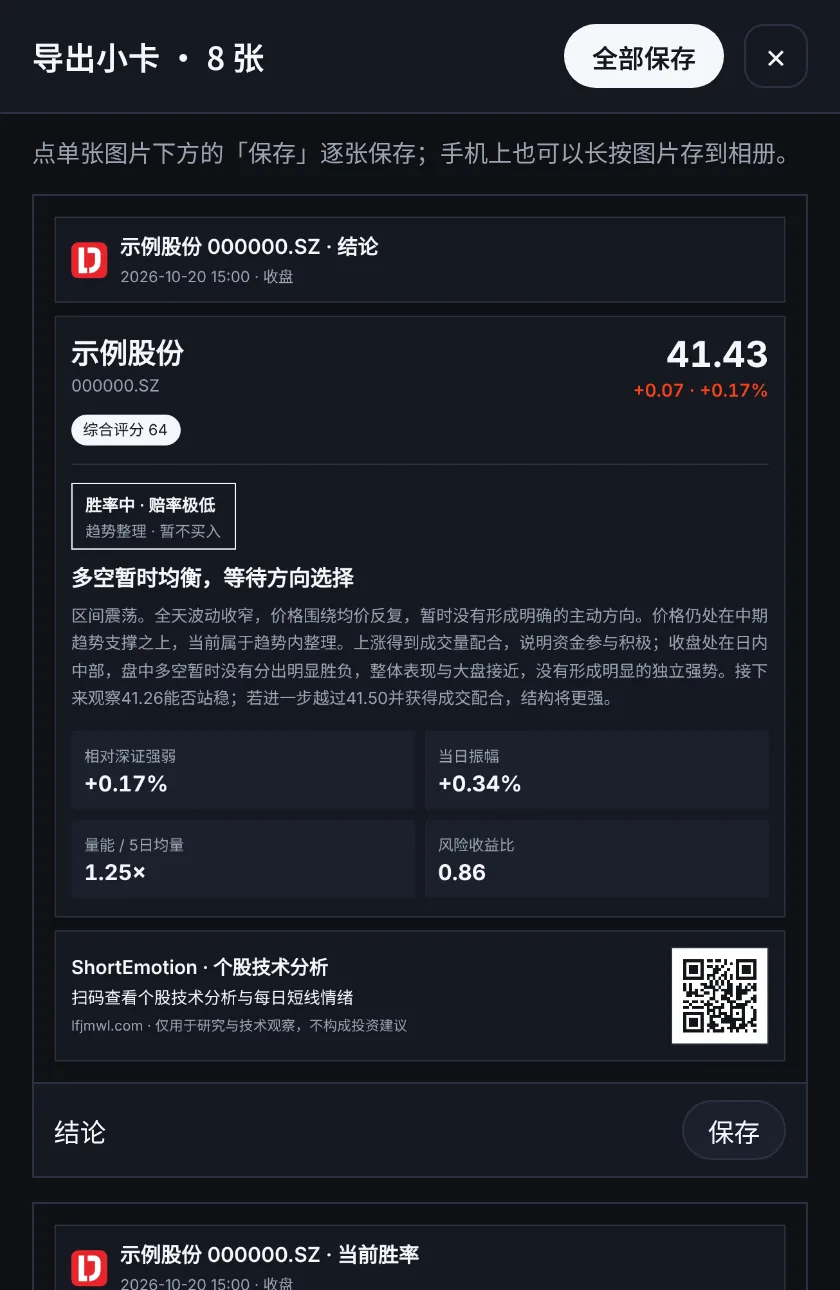
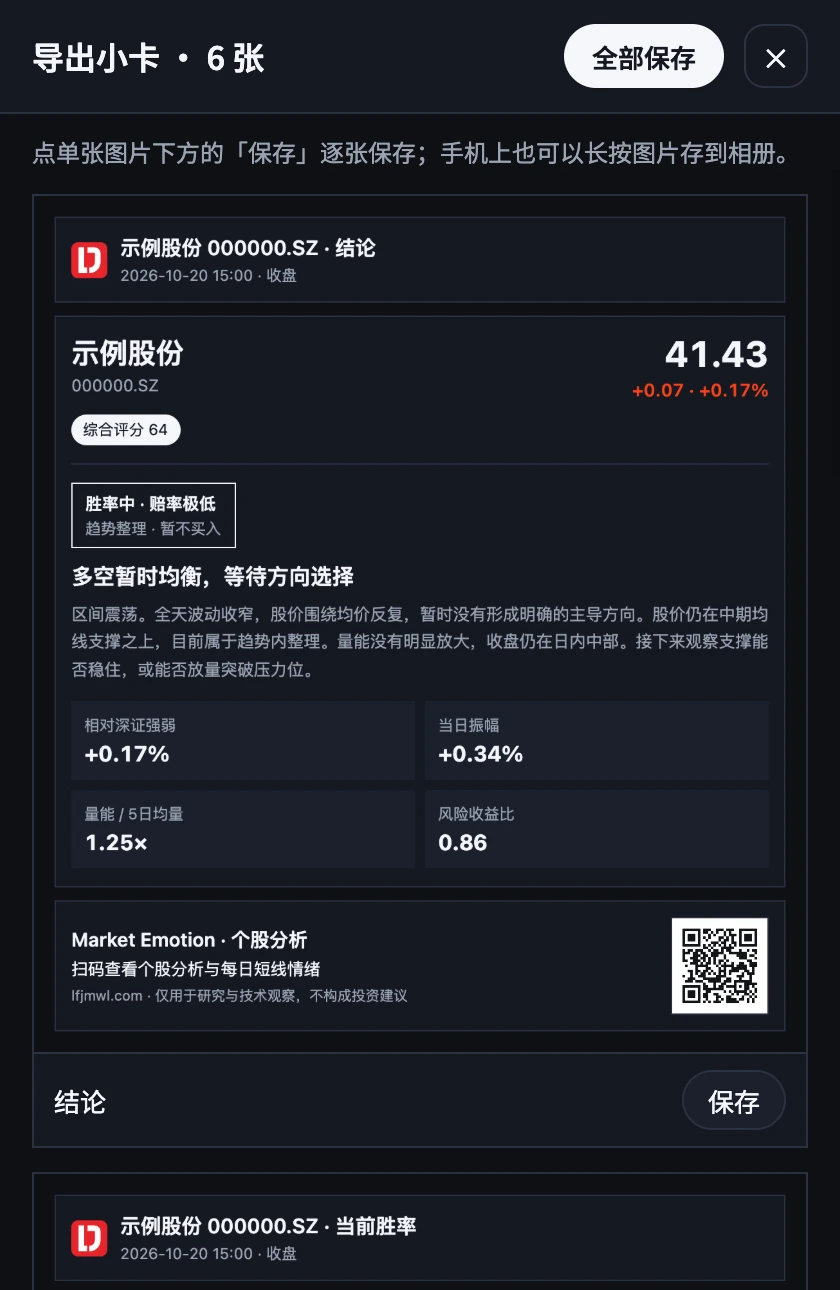
统一平台品牌为 Market Emotion (#199)
* 统一平台品牌为 Market Emotion

* 更新品牌分享示例截图

diff --git a/public/about/index.html b/public/about/index.html
@@ -4,20 +4,20 @@
   <meta charset="utf-8">
   <meta name="viewport" content="width=device-width,initial-scale=1,maximum-scale=1,viewport-fit=cover">
   <meta name="theme-color" content="#ffffff">
-  <title>ShortEmotion · 看懂A股情绪与走势</title>
+  <title>Market Emotion · 看懂A股情绪与走势</title>
   <meta name="description" content="一个情绪分，告诉你今天该进攻还是防守；输入一只股票，看懂趋势、胜率与赔率。">
   <link rel="canonical" href="https://www.lfjmwl.com/about">
-  <link rel="alternate" type="application/rss+xml" title="ShortEmotion 每日看点" href="https://www.lfjmwl.com/news/feed.xml">
+  <link rel="alternate" type="application/rss+xml" title="Market Emotion 每日看点" href="https://www.lfjmwl.com/news/feed.xml">
   <meta property="og:type" content="website">
-  <meta property="og:site_name" content="ShortEmotion">
+  <meta property="og:site_name" content="Market Emotion">
   <meta property="og:url" content="https://www.lfjmwl.com/about">
-  <meta property="og:title" content="ShortEmotion · 看懂A股情绪与走势">
+  <meta property="og:title" content="Market Emotion · 看懂A股情绪与走势">
   <meta property="og:description" content="一个分数看清短线情绪，一只股票看懂趋势结构、胜率与赔率。">
   <meta property="og:image" content="https://www.lfjmwl.com/about/img/pulse-light.webp">
   <meta property="og:locale" content="zh_CN">
   <meta name="twitter:card" content="summary_large_image">
   <meta name="twitter:image" content="https://www.lfjmwl.com/about/img/pulse-light.webp">
-  <script type="application/ld+json">[{"@context": "https://schema.org", "@type": "Organization", "@id": "https://www.lfjmwl.com/#organization", "name": "ShortEmotion", "url": "https://www.lfjmwl.com/about", "logo": "https://www.lfjmwl.com/apple-touch-icon.png", "description": "A股短线情绪与个股技术分析：每天一个 0–100 的短线情绪分，并发布每日看点短线复盘。"}, {"@context": "https://schema.org", "@type": "WebSite", "@id": "https://www.lfjmwl.com/#website", "name": "ShortEmotion", "alternateName": "看懂A股情绪与走势", "url": "https://www.lfjmwl.com/about", "inLanguage": ["zh-Hans", "zh-Hant"], "publisher": {"@id": "https://www.lfjmwl.com/#organization"}}]</script>
+  <script type="application/ld+json">[{"@context": "https://schema.org", "@type": "Organization", "@id": "https://www.lfjmwl.com/#organization", "name": "Market Emotion", "url": "https://www.lfjmwl.com/about", "logo": "https://www.lfjmwl.com/apple-touch-icon.png", "description": "A股短线情绪与个股分析：每天一个 0–100 的短线情绪分，并发布每日看点短线复盘。"}, {"@context": "https://schema.org", "@type": "WebSite", "@id": "https://www.lfjmwl.com/#website", "name": "Market Emotion", "alternateName": "看懂A股情绪与走势", "url": "https://www.lfjmwl.com/about", "inLanguage": ["zh-Hans", "zh-Hant"], "publisher": {"@id": "https://www.lfjmwl.com/#organization"}}]</script>
   <link rel="icon" href="/short-emotion/favicon-32.png?v=2" type="image/png" sizes="32x32">
   <link rel="icon" href="/short-emotion/logo.svg?v=2" type="image/svg+xml">
   <link rel="apple-touch-icon" href="/apple-touch-icon.png?v=2">
@@ -48,10 +48,10 @@
 </head>
 <body>
   <nav class="nav" data-account-actions="hidden">
-    <a class="brand" href="/about" aria-label="ShortEmotion 介绍">
+    <a class="brand" href="/about" aria-label="Market Emotion 介绍">
       <img class="brand-logo" src="/short-emotion/logo.svg?v=2" alt="">
       <span class="brand-text">
-        <b>ShortEmotion</b>
+        <b>Market Emotion</b>
         <small>看懂A股情绪与走势</small>
       </span>
     </a>
@@ -64,7 +64,7 @@
   <main class="page">
     <!-- 从邀请链接（/about?invite=SE…）进来时显示：谁邀请你、奖励 -->
     <div class="invite-banner" hidden>
-      <p class="invite-banner-title"><b class="invite-banner-name">好友</b><span>邀请你加入 ShortEmotion</span></p>
+      <p class="invite-banner-title"><b class="invite-banner-name">好友</b><span>邀请你加入 Market Emotion</span></p>
       <p class="invite-banner-copy">免费注册并完成第一次签到，你和邀请人各得 <em>50</em> 积分。</p>
     </div>
 
@@ -95,7 +95,7 @@
           <small class="live-time">盘中数据</small>
         </a>
         <form class="ta-tile" action="/technicalanalysis" method="get" autocomplete="off">
-          <span class="live-market">个股技术分析</span>
+          <span class="live-market">个股分析</span>
           <div class="se-bar">
             <svg viewBox="0 0 24 24" fill="none" aria-hidden="true"><circle cx="11" cy="11" r="6.5" stroke="currentColor" stroke-width="1.8"/><path d="m20 20-4.2-4.2" stroke="currentColor" stroke-width="1.8" stroke-linecap="round"/></svg>
             <input name="q" type="search" inputmode="search" enterkeyhint="go" maxlength="30" placeholder="股票代码或完整名称" aria-label="股票代码或完整名称" required>
@@ -161,7 +161,7 @@
     </section>
 
     <section class="steps-intro" id="technical-analysis">
-      <h2>个股技术分析：一只股票看四件事</h2>
+      <h2>个股分析：一只股票看四件事</h2>
       <p>输入股票代码或简称，生成趋势结构、胜率与赔率、历史同类量价结构和事件驱动分析。</p>
       <p class="steps-note">每次分析 10 积分；注册送 50，每日签到 +5。以下截图为示例数据。</p>
     </section>
@@ -174,7 +174,7 @@
       </div>
       <picture class="feature-shot">
         <source srcset="/about/img/ta-verdict-dark.webp" media="(prefers-color-scheme: dark)">
-        <img src="/about/img/ta-verdict-light.webp" alt="个股技术分析：结构、胜率与赔率的结论" width="776" height="1038" loading="lazy">
+        <img src="/about/img/ta-verdict-light.webp" alt="个股分析：结构、胜率与赔率的结论" width="776" height="1038" loading="lazy">
       </picture>
     </section>
 
@@ -226,7 +226,7 @@
 
     <section class="data-source">
       <h2>用 Wind MCP 数据搭建</h2>
-      <p>ShortEmotion 的数据来自 Wind Alice Market 的 MCP 服务。行情、涨跌停与连板、概念板块和财经新闻都通过 MCP 接口按交易时段定时取得，再由我们的算法合成情绪分、整理成题材异动；个股技术分析则在你发起分析时，即时取得这只股票的行情与公告新闻。</p>
+      <p>Market Emotion 的数据来自 Wind Alice Market 的 MCP 服务。行情、涨跌停与连板、概念板块和财经新闻都通过 MCP 接口按交易时段定时取得，再由我们的算法合成情绪分、整理成题材异动；个股分析则在你发起分析时，即时取得这只股票的行情与公告新闻。</p>
       <ul class="source-list">
         <li><b>行情与涨跌停</b><span>涨跌家数、涨跌停、连板与溢价</span></li>
         <li><b>概念板块</b><span>板块分钟行情与成分股</span></li>
@@ -248,7 +248,7 @@
       </article>
       <article class="board">
         <div>
-          <h3>个股技术分析</h3>
+          <h3>个股分析</h3>
           <p>趋势结构、胜率与赔率、关键价位、历史同类量价结构和事件驱动；可导出长图或小卡分享。登录后使用，每次分析 10 积分。</p>
         </div>
         <div class="board-links">
@@ -259,7 +259,7 @@
 
     <footer class="footer">
       <p>仅用于研究与情绪观察，不构成投资建议。</p>
-      <p>© 2026 ShortEmotion</p>
+      <p>© 2026 Market Emotion</p>
     </footer>
   </main>
 

diff --git a/public/home/index.html b/public/home/index.html
@@ -5,7 +5,7 @@
   <meta name="viewport" content="width=device-width,initial-scale=1,maximum-scale=1,viewport-fit=cover">
   <meta name="theme-color" content="#ffffff">
   <meta name="robots" content="noindex">
-  <title>首页 · ShortEmotion</title>
+  <title>首页 · Market Emotion</title>
   <link rel="icon" href="/short-emotion/favicon-32.png?v=2" type="image/png" sizes="32x32">
   <link rel="icon" href="/short-emotion/logo.svg?v=2" type="image/svg+xml">
   <link rel="apple-touch-icon" href="/apple-touch-icon.png?v=2">
@@ -40,7 +40,7 @@
 <body class="wide-page wide-home">
   <div class="app-shell">
     <nav class="nav">
-      <a class="nav-logo" href="/home" aria-label="首页"><img src="/short-emotion/logo.svg?v=2" alt="ShortEmotion"></a>
+      <a class="nav-logo" href="/home" aria-label="首页"><img src="/short-emotion/logo.svg?v=2" alt="Market Emotion"></a>
       <div class="nav-title">首页</div>
       <button id="account" class="nav-btn" type="button" aria-label="账号" title="账号" aria-haspopup="menu" aria-expanded="false">
         <svg viewBox="0 0 24 24" fill="none" aria-hidden="true"><circle cx="12" cy="8.5" r="3.5" stroke="currentColor" stroke-width="1.6"/><path d="M5 19.5c1.2-3.3 3.8-5 7-5s5.8 1.7 7 5" stroke="currentColor" stroke-width="1.6" stroke-linecap="round"/></svg>
@@ -49,7 +49,7 @@
 
     <main class="wide-home-grid">
       <form id="ta-form" class="card ta-search home-card" autocomplete="off">
-        <div class="card-head"><h2 class="card-title"><a href="/technicalanalysis">个股技术分析</a></h2><a class="home-more" href="/technicalanalysis" aria-label="查看更多个股技术分析">查看更多<svg viewBox="0 0 24 24" fill="none" aria-hidden="true"><path d="m9 6 6 6-6 6" stroke="currentColor" stroke-width="1.6" stroke-linecap="round" stroke-linejoin="round"/></svg></a></div>
+        <div class="card-head"><h2 class="card-title"><a href="/technicalanalysis">个股分析</a></h2><a class="home-more" href="/technicalanalysis" aria-label="查看更多个股分析">查看更多<svg viewBox="0 0 24 24" fill="none" aria-hidden="true"><path d="m9 6 6 6-6 6" stroke="currentColor" stroke-width="1.6" stroke-linecap="round" stroke-linejoin="round"/></svg></a></div>
         <div class="home-card-body"><div class="se-bar">
           <svg viewBox="0 0 24 24" fill="none" aria-hidden="true"><circle cx="11" cy="11" r="6.5" stroke="currentColor" stroke-width="1.8"/><path d="m20 20-4.2-4.2" stroke="currentColor" stroke-width="1.8" stroke-linecap="round"/></svg>
           <input id="ta-input" name="q" type="search" inputmode="search" enterkeyhint="go" maxlength="30" placeholder="股票代码或完整名称" aria-label="股票代码或完整名称" required>
@@ -120,7 +120,7 @@
         <span id="limitup-time" class="home-time"></span></div>
       </section>
 
-      <section id="etf-home-card" class="card home-card"><div class="card-head"><h2 class="card-title"><a href="/etfflow">宽基 ETF 资金</a></h2><a class="home-more" href="/etfflow" aria-label="查看更多宽基ETF资金">查看更多 <svg viewBox="0 0 24 24" fill="none" aria-hidden="true"><path d="m9 5 7 7-7 7" stroke="currentColor" stroke-width="1.6"/></svg></a></div><div id="etf-home-body" class="home-card-body home-etf-body"><div id="etf-home-overview" aria-live="polite">正在读取资金概览…</div><span id="etf-home-time" class="home-time"></span><div id="etf-home-lock" class="anomaly-lock" role="group" aria-label="宽基ETF资金已锁定" hidden><svg viewBox="0 0 24 24" aria-hidden="true"><rect x="5" y="10.5" width="14" height="10" rx="2" fill="none" stroke="currentColor" stroke-width="1.6"/><path d="M8 10.5V7.5a4 4 0 0 1 8 0v3" fill="none" stroke="currentColor" stroke-width="1.6"/></svg><b>查看宽基 ETF 资金概览</b><p>解锁后 12 小时内，首页与看板都能查看</p><button id="etf-home-action" class="pill-btn" type="button" disabled>解锁 · 5 积分</button><small id="etf-home-balance"></small></div></div></section>
+      <section id="etf-home-card" class="card home-card"><div class="card-head"><h2 class="card-title"><a href="/etfflow">宽基ETF</a></h2><a class="home-more" href="/etfflow" aria-label="查看更多宽基ETF">查看更多 <svg viewBox="0 0 24 24" fill="none" aria-hidden="true"><path d="m9 5 7 7-7 7" stroke="currentColor" stroke-width="1.6"/></svg></a></div><div id="etf-home-body" class="home-card-body home-etf-body"><div id="etf-home-overview" aria-live="polite">正在读取资金概览…</div><span id="etf-home-time" class="home-time"></span><div id="etf-home-lock" class="anomaly-lock" role="group" aria-label="宽基ETF已锁定" hidden><svg viewBox="0 0 24 24" aria-hidden="true"><rect x="5" y="10.5" width="14" height="10" rx="2" fill="none" stroke="currentColor" stroke-width="1.6"/><path d="M8 10.5V7.5a4 4 0 0 1 8 0v3" fill="none" stroke="currentColor" stroke-width="1.6"/></svg><b>查看宽基ETF概览</b><p>解锁后 12 小时内，首页与看板都能查看</p><button id="etf-home-action" class="pill-btn" type="button" disabled>解锁 · 5 积分</button><small id="etf-home-balance"></small></div></div></section>
       <section id="sectorflow-card" class="card home-card home-sectorflow">
         <div class="card-head"><h2 class="card-title"><a href="/sectorflow">资金流向</a></h2><a class="home-more" href="/sectorflow" aria-label="查看更多资金流向">查看更多<svg viewBox="0 0 24 24" fill="none" aria-hidden="true"><path d="m9 6 6 6-6 6" stroke="currentColor" stroke-width="1.6" stroke-linecap="round" stroke-linejoin="round"/></svg></a></div>
         <div id="sectorflow-body" class="home-card-body home-etf-body"><div id="sectorflow-chart"></div><div id="sectorflow-home-lock" class="anomaly-lock" role="group" aria-label="资金流向已锁定" hidden></div></div>

diff --git a/public/etfflow/index.html b/public/etfflow/index.html
@@ -5,7 +5,7 @@
   <meta name="viewport" content="width=device-width,initial-scale=1,maximum-scale=1,viewport-fit=cover">
   <meta name="theme-color" content="#ffffff">
   <meta name="robots" content="noindex">
-  <title>宽基ETF资金 · ShortEmotion</title>
+  <title>宽基ETF · Market Emotion</title>
   <link rel="icon" href="/short-emotion/favicon-32.png?v=2" type="image/png" sizes="32x32">
   <link rel="icon" href="/short-emotion/logo.svg?v=2" type="image/svg+xml">
   <link rel="apple-touch-icon" href="/apple-touch-icon.png?v=2">
@@ -40,17 +40,17 @@
 <body class="wide-page wide-etfflow">
   <div class="app-shell">
     <nav class="nav">
-      <a class="nav-logo" href="/home" aria-label="首页"><img src="/short-emotion/logo.svg?v=2" alt="ShortEmotion"></a>
-      <div class="nav-title">宽基ETF资金</div>
+      <a class="nav-logo" href="/home" aria-label="首页"><img src="/short-emotion/logo.svg?v=2" alt="Market Emotion"></a>
+      <div class="nav-title">宽基ETF</div>
       <button id="account" class="nav-btn" type="button" aria-label="账号" title="账号" aria-haspopup="menu" aria-expanded="false">
         <svg viewBox="0 0 24 24" fill="none" aria-hidden="true"><circle cx="12" cy="8.5" r="3.5" stroke="currentColor" stroke-width="1.6"/><path d="M5 19.5c1.2-3.3 3.8-5 7-5s5.8 1.7 7 5" stroke="currentColor" stroke-width="1.6" stroke-linecap="round"/></svg>
       </button>
     </nav>
 
     <main>
-      <div class="ef-heading"><div><h1>宽基 ETF 资金</h1><p id="ef-date">正在读取数据…</p></div><div class="ef-share-wrap"><button id="ef-share" class="nav-btn" type="button" aria-label="导出分享" aria-haspopup="menu" aria-expanded="false" disabled><svg viewBox="0 0 24 24" fill="none" aria-hidden="true"><path d="M12 4v11M7.5 8.5 12 4l4.5 4.5M5 13v5a2 2 0 0 0 2 2h10a2 2 0 0 0 2-2v-5" stroke="currentColor" stroke-width="1.6" stroke-linecap="round" stroke-linejoin="round"/></svg></button></div></div>
+      <div class="ef-heading"><div><h1>宽基ETF</h1><p id="ef-date">正在读取数据…</p></div><div class="ef-share-wrap"><button id="ef-share" class="nav-btn" type="button" aria-label="导出分享" aria-haspopup="menu" aria-expanded="false" disabled><svg viewBox="0 0 24 24" fill="none" aria-hidden="true"><path d="M12 4v11M7.5 8.5 12 4l4.5 4.5M5 13v5a2 2 0 0 0 2 2h10a2 2 0 0 0 2-2v-5" stroke="currentColor" stroke-width="1.6" stroke-linecap="round" stroke-linejoin="round"/></svg></button></div></div>
       <section class="card ef-overview" aria-labelledby="overview-title"><div class="card-head"><h2 id="overview-title" class="card-title">资金概览</h2><span>单位：亿元</span></div><div id="ef-overview" aria-live="polite"></div></section>
-      <section id="ef-paywall" class="card" hidden><h2 class="card-title">查看宽基 ETF 资金</h2><p id="ef-paywall-copy" class="card-desc">解锁后查看各类宽基、历史流入及ETF明细，12小时内有效。</p><button id="ef-unlock" class="etf-home-action" type="button">解锁（5积分）</button></section>
+      <section id="ef-paywall" class="card" hidden><h2 class="card-title">查看宽基ETF</h2><p id="ef-paywall-copy" class="card-desc">解锁后查看各类宽基、历史流入及ETF明细，12小时内有效。</p><button id="ef-unlock" class="etf-home-action" type="button">解锁（5积分）</button></section>
       <div id="ef-protected" class="ef-protected" hidden>
       <section class="card ef-groups-card"><div class="card-head"><h2 class="card-title">各类宽基</h2><label class="ef-label">查看指标 <select id="ef-metric" disabled><option value="amount">当日净流入</option><option value="day">较昨日</option><option value="week">较近一周</option><option value="month">较近一月</option></select></label></div><div id="ef-groups" class="ef-groups" aria-live="polite"></div><a id="ef-detail-link" class="ef-detail-link" href="#ef-detail-section">查看所选宽基 ETF 明细 →</a></section>
       <section class="card ef-history-card"><div class="card-head"><h2 class="card-title">近一月每日净流入</h2><span class="ef-legend">红：净申购　绿：净赎回</span></div><div class="ef-scroll-tools"><span>左右滑动查看各类宽基</span><div class="ef-scroll-buttons"><button id="ef-scroll-prev" type="button" aria-label="查看左侧宽基" aria-controls="ef-heatmap-scroll" disabled><svg viewBox="0 0 24 24" fill="none" aria-hidden="true"><path d="m14 6-6 6 6 6" stroke="currentColor" stroke-width="1.8" stroke-linecap="round" stroke-linejoin="round"/></svg></button><button id="ef-scroll-next" type="button" aria-label="查看右侧宽基" aria-controls="ef-heatmap-scroll" disabled><svg viewBox="0 0 24 24" fill="none" aria-hidden="true"><path d="m10 6 6 6-6 6" stroke="currentColor" stroke-width="1.8" stroke-linecap="round" stroke-linejoin="round"/></svg></button></div></div><div id="ef-heatmap-scroll" class="ef-scroll" tabindex="0" role="region" aria-label="ETF每日净流入热力表，可横向滚动"><table id="ef-table"><caption>最近22个交易日，颜色深浅按各列相对大小</caption></table></div><p id="ef-missing" class="ef-note" hidden>当前数据缺失</p></section>

diff --git a/public/kandian/article.html b/public/kandian/article.html
@@ -1,4 +1,4 @@
-<!doctype html><html lang="zh-CN"><head><meta charset="utf-8"><meta name="viewport" content="width=device-width,initial-scale=1,viewport-fit=cover"><meta name="robots" content="noindex"><title>看点早报</title><link rel="icon" href="/short-emotion/logo.svg?v=2"><script>var t=localStorage.getItem('twsvp_theme');document.documentElement.dataset.theme=t==='light'||t==='dark'?t:matchMedia('(prefers-color-scheme: dark)').matches?'dark':'light';</script><link rel="stylesheet" href="/short-emotion/twsvp.css?v=18"><link rel="stylesheet" href="/kandian/reports.css?v=5"><link rel="stylesheet" href="/shared/like.css?v=1"><script>window.va=window.va||function(){(window.vaq=window.vaq||[]).push(arguments)};</script><script defer src="/_vercel/insights/script.js"></script>  <link rel="stylesheet" href="/shared/global-header.css?v=4">
+<!doctype html><html lang="zh-CN"><head><meta charset="utf-8"><meta name="viewport" content="width=device-width,initial-scale=1,viewport-fit=cover"><meta name="robots" content="noindex"><title>看点 · Market Emotion</title><link rel="icon" href="/short-emotion/logo.svg?v=2"><script>var t=localStorage.getItem('twsvp_theme');document.documentElement.dataset.theme=t==='light'||t==='dark'?t:matchMedia('(prefers-color-scheme: dark)').matches?'dark':'light';</script><link rel="stylesheet" href="/short-emotion/twsvp.css?v=18"><link rel="stylesheet" href="/kandian/reports.css?v=5"><link rel="stylesheet" href="/shared/like.css?v=1"><script>window.va=window.va||function(){(window.vaq=window.vaq||[]).push(arguments)};</script><script defer src="/_vercel/insights/script.js"></script>  <link rel="stylesheet" href="/shared/global-header.css?v=4">
   <script defer src="/shared/usage.js?v=3"></script>
   <link rel="stylesheet" href="/shared/wide-layout.css?v=2">
 </head><body class="wide-page wide-article"><div class="app-shell"><nav class="nav mr-article-nav" aria-label="文章导航"><a class="mr-back" href="/kandian?tab=reports" aria-label="返回要闻"><svg viewBox="0 0 24 24" fill="none" stroke="currentColor" stroke-width="2" stroke-linecap="round" stroke-linejoin="round" aria-hidden="true"><path d="m15 18-6-6 6-6"/></svg></a><div class="nav-title">看点早报</div><button id="share-article" class="nav-btn mr-share" type="button" aria-label="分享" title="分享" aria-haspopup="menu" aria-expanded="false" disabled><svg viewBox="0 0 24 24" fill="none" aria-hidden="true"><path d="M12 4v11M7.5 8.5 12 4l4.5 4.5" stroke="currentColor" stroke-width="1.6" stroke-linecap="round" stroke-linejoin="round"/><path d="M5 13v5a2 2 0 0 0 2 2h10a2 2 0 0 0 2-2v-5" stroke="currentColor" stroke-width="1.6" stroke-linecap="round"/></svg></button></nav><main><article id="morning-report-article" class="mr-article" aria-live="polite">正在读取文章…</article><footer class="legal">仅用于研究与市场观察，不构成投资建议。</footer></main></div><div id="toast" class="toast" role="status" aria-live="polite"></div><script type="module" src="/kandian/reports.js?v=9"></script>  <script type="module" src="/shared/global-header.js?v=6"></script>

diff --git a/public/shared/global-header.js b/public/shared/global-header.js
@@ -1,8 +1,9 @@
 import { readAccount, readPoints, clearRequestCache } from '/shared/request.js?v=1';
-// One shared header for every ShortEmotion page.
+// One shared header for every Market Emotion page.
 // Existing page-specific account menus remain in charge of their own account button.
 const $ = (s, root=document) => root.querySelector(s);
-const labels = {"/etfflow":"宽基ETF资金","/home":"首页","/about":"ShortEmotion","/login":"ShortEmotion","/shortemotion/cn":"短线情绪","/short-emotion":"短线情绪","/limitup":"涨停情绪","/sectorflow":"资金流向","/technicalanalysis":"个股技术分析","/kandian":"看点","/kandian/article":"看点文章","/account":"个人中心","/account/signin":"每日签到","/account/points":"积分流水","/account/settings":"设置","/account/edit":"编辑个人信息","/account/invite":"邀请好友","/redeem":"领取积分","/account/redeem":"领取积分"};
+const features = [['/home','首页'],['/shortemotion/cn','短线情绪'],['/limitup','涨停情绪'],['/sectorflow','资金流向'],['/etfflow','宽基ETF'],['/technicalanalysis','个股分析'],['/kandian','看点'],['/watchlist','关注']];
+const labels = {...Object.fromEntries(features),"/about":"Market Emotion","/login":"Market Emotion","/short-emotion":"短线情绪","/kandian/article":"看点文章","/account":"个人中心","/account/signin":"每日签到","/account/points":"积分流水","/account/settings":"设置","/account/edit":"编辑个人信息","/account/invite":"邀请好友","/redeem":"领取积分","/account/redeem":"领取积分"};
 let state = { authenticated: false, enabled: true, signedToday: null, unlimited: false };
 let busy = false;
 let refreshAgain = false;
@@ -24,7 +25,7 @@ if (nav && !$('.global-header-space',nav)) {
     back.classList.add('global-header-back');
   } else {
     if(!logo){
-      logo=document.createElement('a');logo.className='nav-logo';logo.innerHTML='<img src="/short-emotion/logo.svg?v=2" alt="ShortEmotion">';
+      logo=document.createElement('a');logo.className='nav-logo';logo.innerHTML='<img src="/short-emotion/logo.svg?v=2" alt="Market Emotion">';
       nav.insertBefore(logo,nav.firstChild);
     }
     logo.href='/about';
@@ -49,7 +50,7 @@ if (nav && !$('.global-header-space',nav)) {
   if (document.body.classList.contains('wide-page') && !secondary && !$('.wide-nav-links',nav)) {
     const links=document.createElement('div');links.className='wide-nav-links';
     links.setAttribute('role','navigation');links.setAttribute('aria-label','主要功能');
-    for (const [href,label] of [['/home','首页'],['/shortemotion/cn','短线情绪'],['/limitup','涨停情绪'],['/sectorflow','资金流向'],['/etfflow','宽基ETF'],['/technicalanalysis','个股分析'],['/kandian','看点']]) {
+    for (const [href,label] of features) {
       const link=document.createElement('a');link.href=href;link.textContent=label;
       if(path===href)link.setAttribute('aria-current','page');links.append(link);
     }

diff --git a/public/technical-analysis/ta.js b/public/technical-analysis/ta.js
@@ -164,7 +164,7 @@ function render() {
   viewDrawer.setBusy(busy);
   const decision = data.finalDecision || {};
   $("#ta-result").hidden = false;
-  document.title = `${data.name} · 个股技术分析`;
+  document.title = `${data.name} · 个股分析 · Market Emotion`;
 
   setText("#ta-name", data.name);
   setText("#ta-code", data.code);
@@ -544,7 +544,7 @@ let exporting = false;
 
 function exportBase() {
   const day = String(current?.asOf || "").slice(0, 10).replaceAll("-", "");
-  return `个股技术分析-${current?.name || ""}-${String(current?.code || "").split(".")[0]}-${day}`;
+  return `个股分析-${current?.name || ""}-${String(current?.code || "").split(".")[0]}-${day}`;
 }
 
 // Logo、二维码先转成内嵌图片：导出时不用等图片加载（iPhone Safari 对画面外的图片有时不触发加载完成）
@@ -571,14 +571,14 @@ const asset = (key) => assetCache[key] || EXPORT_ASSETS[key];
 function exportHeader(subtitle = "") {
   const head = document.createElement("div");
   head.className = "export-head";
-  head.innerHTML = `<img src="${asset("logo")}" alt="ShortEmotion"><div><b>${esc(`${current.name} ${current.code}`)}${subtitle ? ` · ${esc(subtitle)}` : ""}</b><small>${esc(current.date)}</small></div>`;
+  head.innerHTML = `<img src="${asset("logo")}" alt="Market Emotion"><div><b>${esc(`${current.name} ${current.code}`)}${subtitle ? ` · ${esc(subtitle)}` : ""}</b><small>${esc(current.date)}</small></div>`;
   return head;
 }
 
 function exportFooter() {
   const footer = document.createElement("div");
   footer.className = "export-footer";
-  footer.innerHTML = `<div class="export-footer-text"><b>ShortEmotion · 个股技术分析</b><span>扫码查看个股技术分析与每日短线情绪</span><small>lfjmwl.com · 仅用于研究与技术观察，不构成投资建议</small></div><img class="export-qr" src="${asset("qr")}" alt="lfjmwl.com">`;
+  footer.innerHTML = `<div class="export-footer-text"><b>Market Emotion · 个股分析</b><span>扫码查看个股分析与每日短线情绪</span><small>lfjmwl.com · 仅用于研究与技术观察，不构成投资建议</small></div><img class="export-qr" src="${asset("qr")}" alt="lfjmwl.com">`;
   return footer;
 }
 
@@ -692,7 +692,7 @@ function downloadBlob(blob, name) {
 async function shareOrDownload(files) {
   const asFiles = typeof File === "function" ? files.map((item) => new File([item.blob], item.name, { type: "image/png" })) : [];
   if (asFiles.length && window.matchMedia("(pointer: coarse)").matches && navigator.canShare?.({ files: asFiles })) {
-    await navigator.share({ files: asFiles, title: "个股技术分析" }).catch((error) => { if (error?.name !== "AbortError") throw error; });
+    await navigator.share({ files: asFiles, title: "个股分析" }).catch((error) => { if (error?.name !== "AbortError") throw error; });
     return;
   }
   for (const item of files) {

diff --git a/public/terms/index.html b/public/terms/index.html
@@ -5,7 +5,7 @@
   <meta name="viewport" content="width=device-width,initial-scale=1,maximum-scale=1,viewport-fit=cover">
   <meta name="theme-color" content="#ffffff">
   <meta name="robots" content="noindex">
-  <title>用户协议 · ShortEmotion</title>
+  <title>用户协议 · Market Emotion</title>
   <link rel="icon" href="/short-emotion/favicon-32.png?v=2" type="image/png" sizes="32x32">
   <link rel="icon" href="/short-emotion/logo.svg?v=2" type="image/svg+xml">
   <link rel="apple-touch-icon" href="/apple-touch-icon.png?v=2">
@@ -44,10 +44,10 @@
 
   <main class="sub-frame">
     <article class="sub-card legal-doc">
-      <h1>ShortEmotion 用户协议</h1>
+      <h1>Market Emotion 用户协议</h1>
       <p class="legal-meta"><span>版本 1.3</span> · <span>生效日期 2026 年 11 月 6 日</span> · <span>运营者 LFJ、MWL、KOMI</span></p>
 
-      <p class="legal-lead">欢迎使用 ShortEmotion（网址 lfjmwl.com，以下简称“本服务”）。本服务由 LFJ、MWL、KOMI（以下简称“我们”）运营。请你在登录前仔细阅读本协议，特别是<strong>加粗显示的投资风险提示、积分规则、责任限制与争议解决条款</strong>。你在登录页点击「发送验证码」并完成登录，即表示你已阅读、理解并接受本协议及《<a href="/privacy">隐私政策</a>》。</p>
+      <p class="legal-lead">欢迎使用 Market Emotion（网址 www.lfjmwl.com，以下简称“本服务”）。本服务由 LFJ、MWL、KOMI（以下简称“我们”）运营。请你在登录前仔细阅读本协议，特别是<strong>加粗显示的投资风险提示、积分规则、责任限制与争议解决条款</strong>。你在登录页点击「发送验证码」并完成登录，即表示你已阅读、理解并接受本协议及《<a href="/privacy">隐私政策</a>》。</p>
 
       <h2>一、适用对象</h2>
       <ul>
@@ -57,7 +57,7 @@
 
       <h2>二、服务内容</h2>
       <ul>
-        <li>本服务提供 A 股市场的短线情绪看板、板块资金流向、个股技术分析、看点文章、看点社区（发布与浏览市场观点）、积分与邀请等功能，具体以页面实际提供的为准。</li>
+        <li>本服务提供 A 股市场的短线情绪看板、资金流向、个股分析、看点文章、看点社区（发布与浏览市场观点）、积分与邀请等功能，具体以页面实际提供的为准。</li>
         <li>行情、资金与新闻等资料来自第三方金融数据服务商，经我们整理、计算后展示，可能存在延迟、缺失或错误。</li>
         <li>看点文章、分析结论等部分内容由人工智能模型根据上述资料自动生成，可能不准确或不完整，请自行核实。</li>
         <li>我们可能根据运营需要新增、调整或停止部分功能，并尽量提前在页面上告知。</li>

diff --git a/api/_lib/news/render.js b/api/_lib/news/render.js
@@ -9,7 +9,7 @@ import { listReports, readReports, isReportId } from "../morning-report/service.
 
 export const SITE = "https://www.lfjmwl.com";
 export const PAGE_SIZE = 20;
-const SITE_NAME = "ShortEmotion";
+const SITE_NAME = "Market Emotion";
 const OG_IMAGE = `${SITE}/about/img/pulse-light.webp`;
 const LOGO = `${SITE}/apple-touch-icon.png`;
 const ASSETS = {
@@ -24,7 +24,7 @@ const ASSETS = {
 // 与看板共用外观设置：深浅色跟随系统（或 twsvp_theme）
 const THEME_SCRIPT = `<script>(function(){var t=null;try{t=localStorage.getItem('twsvp_theme')}catch(e){}document.documentElement.dataset.theme=t==='light'||t==='dark'?t:matchMedia('(prefers-color-scheme: dark)').matches?'dark':'light';})();</script>`;
 const LIST_TITLE = "每日看点：A股短线情绪复盘";
-const LIST_INTRO = "每个交易日三篇 A 股短线复盘：开盘前的看点早报、午间看点与收盘后的看点收评。每篇基于 ShortEmotion 的短线情绪分、涨跌停与连板梯队、题材异动和公开资讯，由 AI 编辑 Komidomi 生成，并附可回看验证的观点卡。";
+const LIST_INTRO = `每个交易日三篇 A 股短线复盘：开盘前的看点早报、午间看点与收盘后的看点收评。每篇基于 ${SITE_NAME} 的短线情绪分、涨跌停与连板梯队、题材异动和公开资讯，由 AI 编辑 Komidomi 生成，并附可回看验证的观点卡。`;
 const DIMENSIONS = "市场广度、极端反馈、连板梯队、赚钱效应、题材聚焦、成交环境";
 
 // ── 繁体：opencc cn→tw 逐字，再套站内统一的用语修正（与介绍页「繁体」切换一致） ──
@@ -128,7 +128,7 @@ function document_({ lang, headHtml, navHtml, main, reading = false }) {
 }
 
 const organization = { "@type": "Organization", name: SITE_NAME, url: `${SITE}/about`, logo: { "@type": "ImageObject", url: LOGO } };
-const authorEntity = { "@type": "Organization", name: AUTHOR, description: "ShortEmotion 的 AI 编辑", url: `${SITE}/about` };
+const authorEntity = { "@type": "Organization", name: AUTHOR, description: `${SITE_NAME} 的 AI 编辑`, url: `${SITE}/about` };
 const crumbs = (lang, tail = []) => ({
   "@context": "https://schema.org",
   "@type": "BreadcrumbList",

diff --git a/public/download/index.html b/public/download/index.html
@@ -2,8 +2,8 @@
 <html lang="zh-CN">
 <head>
   <meta charset="utf-8"><meta name="viewport" content="width=device-width,initial-scale=1,viewport-fit=cover">
-  <meta name="theme-color" content="#f6f5f3"><meta name="description" content="下载短线情绪 Android App，查看市场情绪、资金流向、个股分析和每日看点。">
-  <title>下载 App · 短线情绪</title><link rel="canonical" href="https://www.lfjmwl.com/download">
+  <meta name="theme-color" content="#f6f5f3"><meta name="description" content="下载 Market Emotion Android App，查看市场情绪、资金流向、个股分析和每日看点。">
+  <title>下载 App · Market Emotion</title><link rel="canonical" href="https://www.lfjmwl.com/download">
   <link rel="icon" href="/short-emotion/logo.svg?v=2" type="image/svg+xml">
   <link rel="stylesheet" href="/download/download.css">
 </head>
@@ -11,8 +11,8 @@
   <nav><a class="back" href="/home">〈 返回</a><span>下载 App</span><a href="/login">登录</a></nav>
   <main>
     <section class="hero">
-      <img class="logo" src="/short-emotion/logo.svg?v=2" alt="短线情绪" width="76" height="76">
-      <p class="eyebrow">SHORTEMOTION · ANDROID</p>
+      <img class="logo" src="/short-emotion/logo.svg?v=2" alt="Market Emotion" width="76" height="76">
+      <p class="eyebrow">Market Emotion · Android</p>
       <h1>市场的情绪，<br>随时看清。</h1>
       <p class="intro">从市场温度到个股走势，将你的研究工作台装进口袋。</p>
       <div class="features"><span>短线情绪</span><span>涨停情绪</span><span>资金流向</span><span>个股分析</span></div>
@@ -28,7 +28,7 @@
       <details><summary>版本信息与文件校验</summary><p id="release-note">等待版本信息</p><code id="checksum"></code></details>
     </section>
   </main>
-  <footer><a href="/privacy">隐私政策</a><span>·</span><a href="/terms">用户协议</a><span>·</span><span>© 2026 ShortEmotion</span></footer>
+  <footer><a href="/privacy">隐私政策</a><span>·</span><a href="/terms">用户协议</a><span>·</span><span>© 2026 Market Emotion</span></footer>
   <script type="module" src="/download/download.js?v=2"></script>
 </body>
 </html>

diff --git a/public/sectorflow/index.html b/public/sectorflow/index.html
@@ -5,7 +5,7 @@
   <meta name="viewport" content="width=device-width,initial-scale=1,maximum-scale=1,viewport-fit=cover">
   <meta name="theme-color" content="#ffffff">
   <meta name="robots" content="noindex">
-  <title>资金流向 · ShortEmotion</title>
+  <title>资金流向 · Market Emotion</title>
   <link rel="icon" href="/short-emotion/favicon-32.png?v=2" type="image/png" sizes="32x32">
   <link rel="icon" href="/short-emotion/logo.svg?v=2" type="image/svg+xml">
   <link rel="apple-touch-icon" href="/apple-touch-icon.png?v=2">
@@ -39,7 +39,7 @@
 <body class="wide-page wide-sectorflow">
   <div class="app-shell">
     <nav class="nav">
-      <a class="nav-logo" href="/home" aria-label="首页"><img src="/short-emotion/logo.svg?v=2" alt="ShortEmotion"></a>
+      <a class="nav-logo" href="/home" aria-label="首页"><img src="/short-emotion/logo.svg?v=2" alt="Market Emotion"></a>
       <div class="nav-title">资金流向</div>
       <button id="account" class="nav-btn" type="button" aria-label="账号" title="账号" aria-haspopup="menu" aria-expanded="false">
         <svg viewBox="0 0 24 24" fill="none" aria-hidden="true"><circle cx="12" cy="8.5" r="3.5" stroke="currentColor" stroke-width="1.6"/><path d="M5 19.5c1.2-3.3 3.8-5 7-5s5.8 1.7 7 5" stroke="currentColor" stroke-width="1.6" stroke-linecap="round"/></svg>
@@ -62,7 +62,7 @@
       </footer>
     </main>
   </div>
-  <aside class="sf-etf-dock" aria-label="宽基ETF资金"><span>查看宽基ETF资金</span><button id="sf-etf-action" type="button" disabled>读取中…</button></aside>
+  <aside class="sf-etf-dock" aria-label="宽基ETF"><span>查看宽基ETF</span><button id="sf-etf-action" type="button" disabled>读取中…</button></aside>
   <script type="module" src="/sectorflow/etf-dock.js?v=2"></script>
   <div id="toast" class="toast" role="status" aria-live="polite"></div>
 

diff --git a/public/privacy/index.html b/public/privacy/index.html
@@ -5,7 +5,7 @@
   <meta name="viewport" content="width=device-width,initial-scale=1,maximum-scale=1,viewport-fit=cover">
   <meta name="theme-color" content="#ffffff">
   <meta name="robots" content="noindex">
-  <title>隐私政策 · ShortEmotion</title>
+  <title>隐私政策 · Market Emotion</title>
   <link rel="icon" href="/short-emotion/favicon-32.png?v=2" type="image/png" sizes="32x32">
   <link rel="icon" href="/short-emotion/logo.svg?v=2" type="image/svg+xml">
   <link rel="apple-touch-icon" href="/apple-touch-icon.png?v=2">
@@ -44,10 +44,10 @@
 
   <main class="sub-frame">
     <article class="sub-card legal-doc">
-      <h1>ShortEmotion 隐私政策</h1>
+      <h1>Market Emotion 隐私政策</h1>
       <p class="legal-meta"><span>版本 1.4</span> · <span>生效日期 2026 年 11 月 6 日</span> · <span>运营者 LFJ、MWL、KOMI</span></p>
 
-      <p class="legal-lead">LFJ、MWL、KOMI（以下简称“我们”）运营 ShortEmotion（网址 lfjmwl.com，以下简称“本服务”）。我们按照《中华人民共和国个人信息保护法》等法律法规处理你的个人信息。本政策说明我们收集哪些信息、怎么使用、交给谁处理、存在哪里、保存多久，以及你可以怎样行使权利。</p>
+      <p class="legal-lead">LFJ、MWL、KOMI（以下简称“我们”）运营 Market Emotion（网址 www.lfjmwl.com，以下简称“本服务”）。我们按照《中华人民共和国个人信息保护法》等法律法规处理你的个人信息。本政策说明我们收集哪些信息、怎么使用、交给谁处理、存在哪里、保存多久，以及你可以怎样行使权利。</p>
 
       <h2>一、我们收集的信息</h2>
       <h3>1. 登录信息（必需）</h3>
